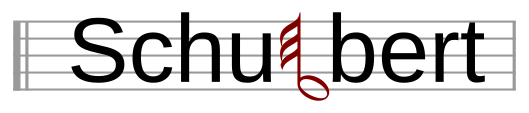
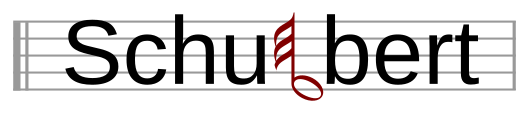
Правка логотипа

Changed region(s): [[0.121, 0.1062, 0.9376, 0.9027]]

diff --git a/README.md b/README.md
@@ -1,4 +1,4 @@
 # Музыкальный ассистент «Шульберт»
 
-![Логотип проекта](schulbert.png)
+![Логотип проекта](schulbert.svg)
 
